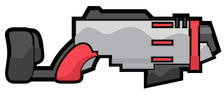
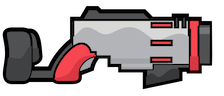
Update weapons and credit @Pointer31

diff --git a/src/game/client/components/players_kz.cpp b/src/game/client/components/players_kz.cpp
@@ -14,6 +14,11 @@ void CPlayers::OnKaizoInit()
     Graphics()->GetSpriteScale(&g_pData->m_aSprites[SPRITE_KZ_PORTAL], ScaleX, ScaleY);
     Graphics()->QuadsSetSubset(0, 0, 1, 1);
 	m_KaizoWeaponsOffsets[KZ_CUSTOM_WEAPON_PORTAL_GUN - KZ_CUSTOM_WEAPONS_START] = Graphics()->QuadContainerAddSprite(m_WeaponEmoteQuadContainerIndex, 92 * ScaleX, 92 * ScaleY);
+
+    Graphics()->GetSpriteScale(&g_pData->m_aSprites[SPRITE_KZ_PORTAL_ORANGE], ScaleX, ScaleY);
+    Graphics()->QuadsSetSubset(0, 0, 1, 1);
+	m_KaizoWeaponsOrangePortalGunOffset = Graphics()->QuadContainerAddSprite(m_WeaponEmoteQuadContainerIndex, 92 * ScaleX, 92 * ScaleY);
+
     Graphics()->GetSpriteScale(&g_pData->m_aSprites[SPRITE_KZ_ATTRACTOR], ScaleX, ScaleY);
     Graphics()->QuadsSetSubset(0, 0, 1, 1);
 	m_KaizoWeaponsOffsets[KZ_CUSTOM_WEAPON_ATTRACTOR_BEAM - KZ_CUSTOM_WEAPONS_START] = Graphics()->QuadContainerAddSprite(m_WeaponEmoteQuadContainerIndex, 92 * ScaleX, 92 * ScaleY);
@@ -50,10 +55,18 @@ void CPlayers::RenderKaizoWeapon(const CNetObj_Character *pPrevChar, const CNetO
 			//WeaponPosition.y += -2.f;
 			if(IsSit)
 				WeaponPosition.y += 3.0f;
-            Graphics()->TextureSet(g_pData->m_aImages[IMAGE_KZ_PORTAL].m_Id);
             Graphics()->SetColor(1.0f, 1.0f, 1.0f, 1.0f);
 			Graphics()->QuadsSetRotation(AnimState.GetAttach()->m_Angle * pi * 2 + (Direction.x < 0 ? -Angle + pi : Angle));
-			Graphics()->RenderQuadContainerAsSprite(m_WeaponEmoteQuadContainerIndex, m_KaizoWeaponsOffsets[KZ_CUSTOM_WEAPON_PORTAL_GUN - KZ_CUSTOM_WEAPONS_START], WeaponPosition.x, WeaponPosition.y, Direction.x < 0 ? -1.0f : 1.0f);
+            if(GameClient()->m_aClients[ClientId].m_CharFlags & KAIZOCHARACTERFLAG_BLUEPORTAL)
+            {
+                Graphics()->TextureSet(g_pData->m_aImages[IMAGE_KZ_PORTAL].m_Id);
+                Graphics()->RenderQuadContainerAsSprite(m_WeaponEmoteQuadContainerIndex, m_KaizoWeaponsOffsets[KZ_CUSTOM_WEAPON_PORTAL_GUN - KZ_CUSTOM_WEAPONS_START], WeaponPosition.x, WeaponPosition.y, Direction.x < 0 ? -1.0f : 1.0f);
+            }
+            else
+            {
+                Graphics()->TextureSet(g_pData->m_aImages[IMAGE_KZ_PORTAL_ORANGE].m_Id);
+                Graphics()->RenderQuadContainerAsSprite(m_WeaponEmoteQuadContainerIndex, m_KaizoWeaponsOrangePortalGunOffset, WeaponPosition.x, WeaponPosition.y, Direction.x < 0 ? -1.0f : 1.0f);
+            }
         }
         break;
     case KZ_CUSTOM_WEAPON_ATTRACTOR_BEAM - KZ_CUSTOM_WEAPONS_START:

diff --git a/src/game/client/gameclient_kz.cpp b/src/game/client/gameclient_kz.cpp
@@ -34,7 +34,7 @@ void CGameClient::HandleKaizoSnapItem(const IClient::CSnapItem *pItem)
             return;
 
         m_aClients[ClientId].m_KaizoCharTick = pKaizoChar->m_Tick;
-        m_aClients[ClientId].m_KaizoWeapons = pKaizoChar->m_WeaponFlags;
+        m_aClients[ClientId].m_CharFlags = pKaizoChar->m_Flags;
         m_aClients[ClientId].m_KaizoCustomWeapon = pKaizoChar->m_RealCurrentWeapon;
 
         CCharacter *pChar = m_GameWorld.GetCharacterById(ClientId);
@@ -55,7 +55,7 @@ void CGameClient::CClientData::KaizoReset()
 {
     m_CrownTick = -1;
     m_KaizoCharTick = -1;
-    m_KaizoWeapons = 0;
+    m_CharFlags = 0;
     m_KaizoCustomWeapon = -1;
 }
 

diff --git a/datasrc/images_kz.py b/datasrc/images_kz.py
@@ -33,6 +33,12 @@ set_kz_portal = SpriteSet("kz_portal", kz_image_portal, 1, 1)
 container.spritesets.Add(set_kz_portal)
 container.sprites.Add(Sprite("kz_portal", set_kz_portal, 0, 0, 7, 3))
 
+kz_image_portal_orange = Image("kz_portal_orange", "kz/portal_orange.png")
+container.images.Add(kz_image_portal_orange)
+set_kz_portal_orange = SpriteSet("kz_portal_orange", kz_image_portal_orange, 1, 1)
+container.spritesets.Add(set_kz_portal_orange)
+container.sprites.Add(Sprite("kz_portal_orange", set_kz_portal_orange, 0, 0, 7, 3))
+
 # Attractor beam
 kz_image_attractor = Image("kz_attractor", "kz/attractor.png")
 container.images.Add(kz_image_attractor)

diff --git a/datasrc/network_kz.py b/datasrc/network_kz.py
@@ -1,5 +1,13 @@
 # Copyright (C) Benjamín Gajardo (also known as +KZ)
 
+import datatypes
+
+KaizoCharacterFlags = ["BLUEPORTAL"]
+
+Flags += [
+	datatypes.Flags("KAIZOCHARACTERFLAG", KaizoCharacterFlags),
+]
+
 Objects += [
     # +KZ Kaizo Network
  
@@ -16,7 +24,7 @@ Objects += [
 	]),
 
     NetObjectEx("KaizoNetworkCharacter", "kaizocharacter@m0rekz.github.io", [
-		NetIntAny("m_WeaponFlags", default=0),
+		NetIntAny("m_Flags", default=0),
         NetIntAny("m_RealCurrentWeapon", default=-1),
         NetIntAny("m_Tick", default=0),
 	], validate_size=False),

diff --git a/src/game/server/entities/character.cpp b/src/game/server/entities/character.cpp
@@ -1597,7 +1597,8 @@ void CCharacter::Snap(int SnappingClient)
 			return;
 
 		pKaizoNetworkCharacter->m_Tick = Server()->Tick();
-		pKaizoNetworkCharacter->m_WeaponFlags = 0; //nothing for now, i want to use it in the future to tell the client which weapons we have
+		pKaizoNetworkCharacter->m_Flags = 0;
+		pKaizoNetworkCharacter->m_Flags |= m_BluePortal ? KAIZOCHARACTERFLAG_BLUEPORTAL : 0;
 		pKaizoNetworkCharacter->m_RealCurrentWeapon = m_Core.m_ActiveWeapon >= KZ_CUSTOM_WEAPONS_START ? m_Core.m_ActiveWeapon - KZ_CUSTOM_WEAPONS_START : -1;
 	}
 }

diff --git a/src/game/client/components/players.h b/src/game/client/components/players.h
@@ -60,6 +60,7 @@ public:
 
 	//+KZ
 	int m_KaizoWeaponsOffsets[KZ_NUM_CUSTOM_WEAPONS - KZ_CUSTOM_WEAPONS_START] = {0};
+	int m_KaizoWeaponsOrangePortalGunOffset = 0;
 
 	void OnKaizoInit();
 	void RenderKaizoWeapon(const CNetObj_Character *pPrevChar, const CNetObj_Character *pPlayerChar, const CTeeRenderInfo *pRenderInfo, int ClientId, float Intra, CAnimState &AnimState);

diff --git a/src/game/client/gameclient.h b/src/game/client/gameclient.h
@@ -523,7 +523,7 @@ public:
 		//+KZ
 		int m_CrownTick = -1;
 		int m_KaizoCharTick = -1;
-		int m_KaizoWeapons = 0;
+		int m_CharFlags = 0;
 		int m_KaizoCustomWeapon = -1;
 
 		void KaizoReset();

diff --git a/README.md b/README.md
@@ -21,3 +21,7 @@ This repo also uses code from the following mods that are NOT made by +KZ:
 [Nheir's Bot Mod for Teeworlds](https://github.com/nheir/teeworlds)
 
 [Kaffeine's Infclass](https://github.com/infclass/teeworlds-infclassR)
+
+Other credits:
+
+Portal gun and Attractor beam textures by Pointer
